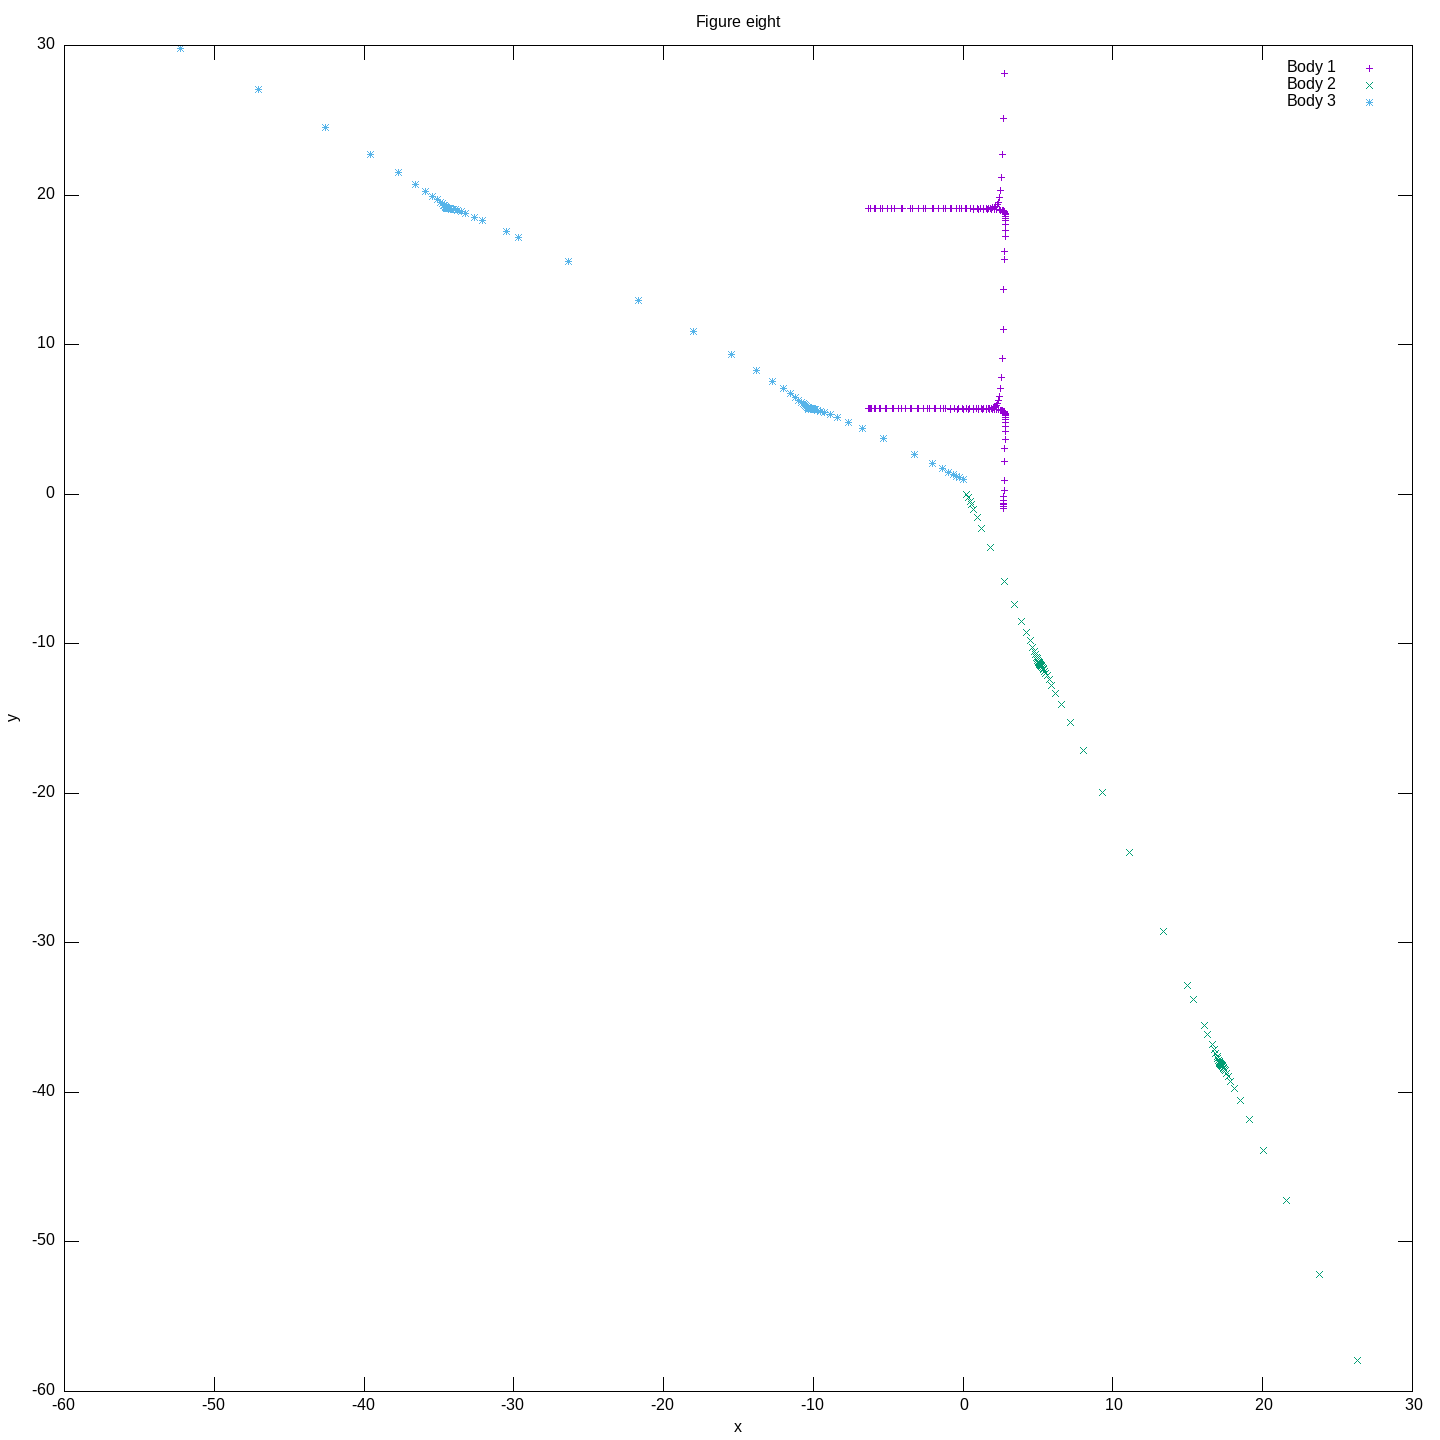
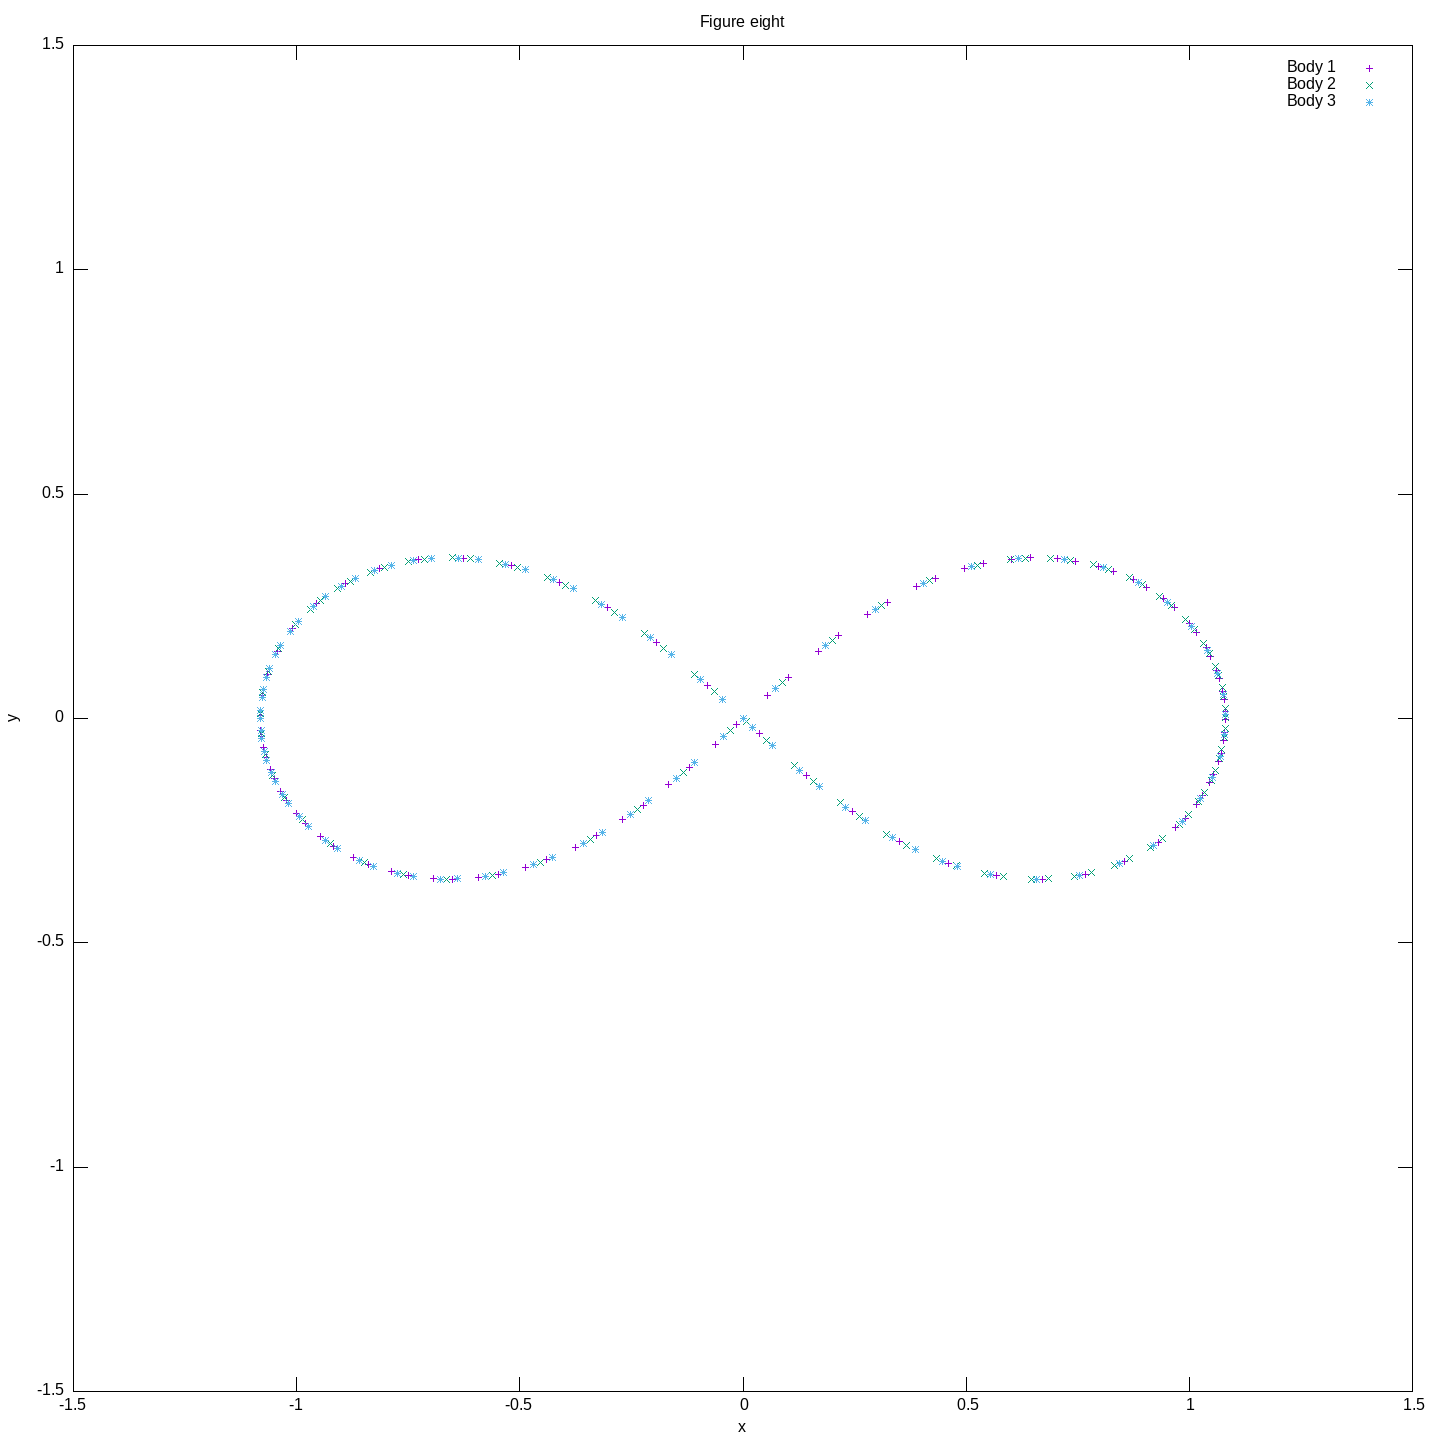
Fixed start parameters and plotting for figure eight

diff --git a/homework/ODE/main.cpp b/homework/ODE/main.cpp
@@ -2,7 +2,6 @@
 #include "../lib/matrix.hpp"
 #include <iostream>
 #include <limits>
-#include <numbers>
 #include <string>
 
 int main(int argc, char** argv) {
@@ -103,21 +102,18 @@ int main(int argc, char** argv) {
 		};
 
 		if (!read_y0) {
-			const double _vx = 0.93240737 * 2 * std::numbers::pi,
-				  		_vy = 0.86473146 * 2 * std::numbers::pi;
+			const double _vx = 0.93240737,
+				  		_vy = 0.86473146;
 
 			y0 = pp::Vector<double>(12);
 			
-			// Start conditions from some python script at
-			// https://github.com/spaceman-source/Three-Body_Problem/blob/main/Checiner-Montgomery%20Solution.py
-			// (couldn't find them on wikipedia)
 			y0[0] = 0.5*_vx; y0[1] = 0.5*_vy;
-			y0[2] = -_vx; y0[3] = -_vy;
-			y0[4] = 0.5*_vx; y0[5] = 0.5*_vy;
+			y0[2] = 0.5*_vx; y0[3] = 0.5*_vy;
+			y0[4] = -_vx; y0[5] = -_vy;
 
-			y0[6] = -0.97000436; y0[7] = 0.24308753;
-			y0[8] = 0.; y0[9] = 0.;
-			y0[10] = 0.97000436; y0[11] = -0.24308753;
+			y0[6] = 0.97000436; y0[7] = -0.24308753;
+			y0[8] = -0.97000436; y0[9] = 0.24308753;
+			y0[10] = 0.; y0[11] = 0.;
 		}
 
 	}
